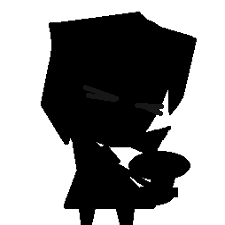
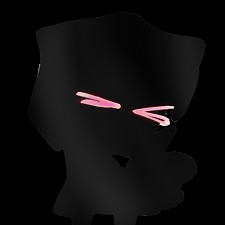
gaz and gir

diff --git a/pc/mega/answer.html b/pc/mega/answer.html
@@ -34,7 +34,7 @@
       <li id="me"><a href="https://www.youtube.com/channel/UCugba6qGABt4_aWgpV5mTuQ" target="new">Lisa Bernard/Novi dooms - Producer, Writer, Developer, rough shadow icons, bullet clip art</a></li>
       <li id="kf"><a href="http://kirmit-fuzzydragon.deviantart.com/" target="new">Kirmit-FuzzyDragon - Megadoomer background</a></li>
       <li id="ka"><a href="http://kaitlynann.deviantart.com/" target="new">Kaitlyn Stork - Zim&#39s background</a></li>
-      <li id="pf"><a>Peter Fields - Zim&#39s, Tak&#39s, Dib&#39s, Red&#39s, Purple&#39s, Gir&#39s and Sizzlorr&#39s shadow icons</a></li>
+      <li id="pf"><a>Peter Fields - Finalized shadow icons</a></li>
       <li><a href="sources.html" target="new">other sources</a></li>
     </ul>
     

diff --git a/pc/mega/hole.html b/pc/mega/hole.html
@@ -33,7 +33,7 @@
       <li id="me"><a href="https://www.youtube.com/channel/UCugba6qGABt4_aWgpV5mTuQ" target="new">Lisa Bernard/Novi dooms - Producer, Writer, Developer, rough shadow icons, bullet clip art</a></li>
       <li id="kf"><a href="http://kirmit-fuzzydragon.deviantart.com/" target="new">Kirmit-FuzzyDragon - Megadoomer background</a></li>
       <li id="ka"><a href="http://kaitlynann.deviantart.com/" target="new">Kaitlyn Stork - Zim&#39s background</a></li>
-      <li id="pf"><a>Peter Fields - Zim&#39s, Tak&#39s, Dib&#39s, Red&#39s, Purple&#39s, Gir&#39s and Sizzlorr&#39s shadow icons</a></li>
+      <li id="pf"><a>Peter Fields - Finalized shadow icons</a></li>
       <li><a href="sources.html" target="new">other sources</a></li>
     </ul>
     

diff --git a/tablet/mega/answer.html b/tablet/mega/answer.html
@@ -34,7 +34,7 @@
       <li id="me"><a href="https://www.youtube.com/channel/UCugba6qGABt4_aWgpV5mTuQ" target="new">Lisa Bernard/Novi dooms - Producer, Writer, Developer, rough shadow icons, bullet clip art</a></li>
       <li id="kf"><a href="http://kirmit-fuzzydragon.deviantart.com/" target="new">Kirmit-FuzzyDragon - Megadoomer background</a></li>
       <li id="ka"><a href="http://kaitlynann.deviantart.com/" target="new">Kaitlyn Stork - Zim&#39s background</a></li>
-      <li id="pf"><a>Peter Fields - Zim&#39s, Tak&#39s, Dib&#39s, Red&#39s, Purple&#39s, Gir&#39s and Sizzlorr&#39s shadow icons</a></li>
+      <li id="pf"><a>Peter Fields - Finalized shadow icons</a></li>
       <li><a href="sources.html" target="new">other sources</a></li>
     </ul>
     

diff --git a/tablet/mega/get.html b/tablet/mega/get.html
@@ -39,7 +39,7 @@
       <li id="me"><a href="https://www.youtube.com/channel/UCugba6qGABt4_aWgpV5mTuQ" target="new">Lisa Bernard/Novi dooms - Producer, Writer, Developer, rough shadow icons, bullet clip art</a></li>
       <li id="kf"><a href="http://kirmit-fuzzydragon.deviantart.com/" target="new">Kirmit-FuzzyDragon - Megadoomer background</a></li>
       <li id="ka"><a href="http://kaitlynann.deviantart.com/" target="new">Kaitlyn Stork - Zim&#39s background</a></li>
-      <li id="pf"><a>Peter Fields - Zim&#39s, Tak&#39s, Dib&#39s, Red&#39s, Purple&#39s, Gir&#39s and Sizzlorr&#39s shadow icons</a></li>
+      <li id="pf"><a>Peter Fields - Finalized shadow icons</a></li>
       <li><a href="sources.html" target="new">other sources</a></li>
     </ul>
     

diff --git a/tablet/mega/hole.html b/tablet/mega/hole.html
@@ -33,7 +33,7 @@
       <li id="me"><a href="https://www.youtube.com/channel/UCugba6qGABt4_aWgpV5mTuQ" target="new">Lisa Bernard/Novi dooms - Producer, Writer, Developer, rough shadow icons, bullet clip art</a></li>
       <li id="kf"><a href="http://kirmit-fuzzydragon.deviantart.com/" target="new">Kirmit-FuzzyDragon - Megadoomer background</a></li>
       <li id="ka"><a href="http://kaitlynann.deviantart.com/" target="new">Kaitlyn Stork - Zim&#39s background</a></li>
-      <li id="pf"><a>Peter Fields - Zim&#39s, Tak&#39s, Dib&#39s, Red&#39s, Purple&#39s, Gir&#39s and Sizzlorr&#39s shadow icons</a></li>
+      <li id="pf"><a>Peter Fields - Finalized shadow icons</a></li>
       <li><a href="sources.html" target="new">other sources</a></li>
     </ul>
     

diff --git a/pc/mega/get.html b/pc/mega/get.html
@@ -39,7 +39,7 @@
       <li id="me"><a href="https://www.youtube.com/channel/UCugba6qGABt4_aWgpV5mTuQ" target="new">Lisa Bernard/Novi dooms - Producer, Writer, Developer, rough shadow icons, bullet clip art</a></li>
       <li id="kf"><a href="http://kirmit-fuzzydragon.deviantart.com/" target="new">Kirmit-FuzzyDragon - Megadoomer background</a></li>
       <li id="ka"><a href="http://kaitlynann.deviantart.com/" target="new">Kaitlyn Stork - Zim&#39s background</a></li>
-      <li id="pf"><a>Peter Fields - Zim&#39s, Tak&#39s, Dib&#39s, Red&#39s, Purple&#39s, Gir&#39s and Sizzlorr&#39s shadow icons</a></li>
+      <li id="pf"><a>Peter Fields - Finalized shadow icons</a></li>
       <li><a href="sources.html" target="new">other sources</a></li>
     </ul>
 

diff --git a/phone/mega/answer.html b/phone/mega/answer.html
@@ -37,7 +37,7 @@
       <li id="me"><a href="https://www.youtube.com/channel/UCugba6qGABt4_aWgpV5mTuQ" target="new">Lisa Bernard/Novi dooms - Producer, Writer, Developer, rough shadow icons, bullet clip art</a></li>
       <li id="kf"><a href="http://kirmit-fuzzydragon.deviantart.com/" target="new">Kirmit-FuzzyDragon - Megadoomer background</a></li>
       <li id="ka"><a href="http://kaitlynann.deviantart.com/" target="new">Kaitlyn Stork - Zim&#39s background</a></li>
-      <li id="pf"><a>Peter Fields - Zim&#39s, Tak&#39s, Dib&#39s, Red&#39s, Purple&#39s, Gir&#39s and Sizzlorr&#39s shadow icons</a></li>
+      <li id="pf"><a>Peter Fields - Finalized shadow icons</a></li>
       <li><a href="sources.html" target="new">other sources</a></li>
     </ul>
 

diff --git a/phone/mega/get.html b/phone/mega/get.html
@@ -42,7 +42,7 @@
       <li id="me"><a href="https://www.youtube.com/channel/UCugba6qGABt4_aWgpV5mTuQ" target="new">Lisa Bernard/Novi dooms - Producer, Writer, Developer, rough shadow icons, bullet clip art</a></li>
       <li id="kf"><a href="http://kirmit-fuzzydragon.deviantart.com/" target="new">Kirmit-FuzzyDragon - Megadoomer background</a></li>
       <li id="ka"><a href="http://kaitlynann.deviantart.com/" target="new">Kaitlyn Stork - Zim&#39s background</a></li>
-      <li id="pf"><a>Peter Fields - Zim&#39s, Tak&#39s, Dib&#39s, Red&#39s, Purple&#39s, Gir&#39s and Sizzlorr&#39s shadow icons</a></li>
+      <li id="pf"><a>Peter Fields - Finalized shadow icons</a></li>
       <li><a href="sources.html" target="new">other sources</a></li>
     </ul>
 

diff --git a/phone/mega/hole.html b/phone/mega/hole.html
@@ -36,7 +36,7 @@
       <li id="me"><a href="https://www.youtube.com/channel/UCugba6qGABt4_aWgpV5mTuQ" target="new">Lisa Bernard/Novi dooms - Producer, Writer, Developer, rough shadow icons, bullet clip art</a></li>
       <li id="kf"><a href="http://kirmit-fuzzydragon.deviantart.com/" target="new">Kirmit-FuzzyDragon - Megadoomer background</a></li>
       <li id="ka"><a href="http://kaitlynann.deviantart.com/" target="new">Kaitlyn Stork - Zim&#39s background</a></li>
-      <li id="pf"><a>Peter Fields - Zim&#39s, Tak&#39s, Dib&#39s, Red&#39s, Purple&#39s, Gir&#39s and Sizzlorr&#39s shadow icons</a></li>
+      <li id="pf"><a>Peter Fields - Finalized shadow icons</a></li>
       <li><a href="sources.html" target="new">other sources</a></li>
     </ul>
 
